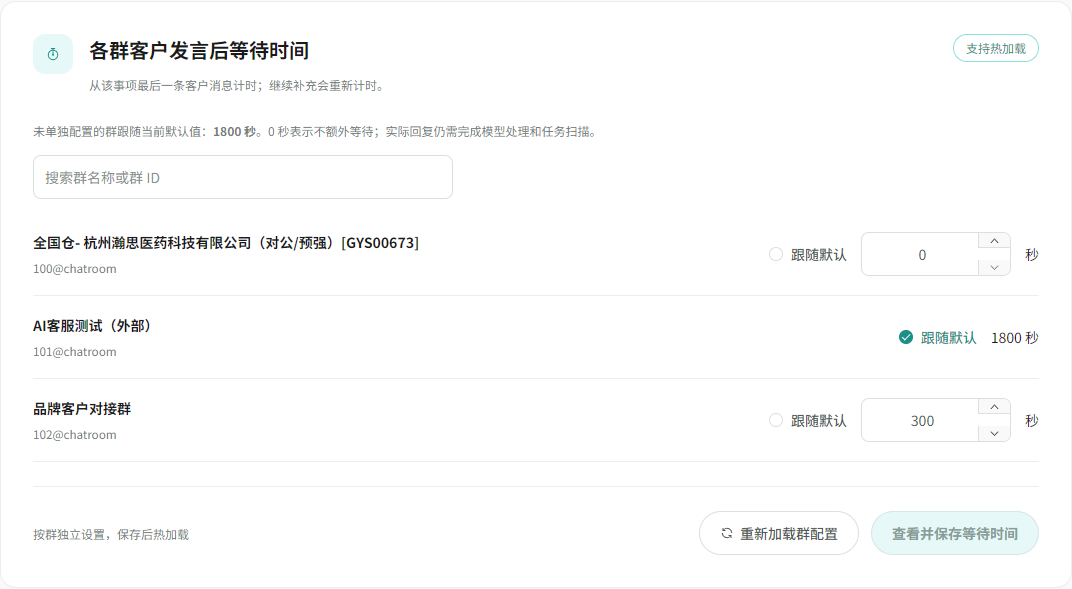
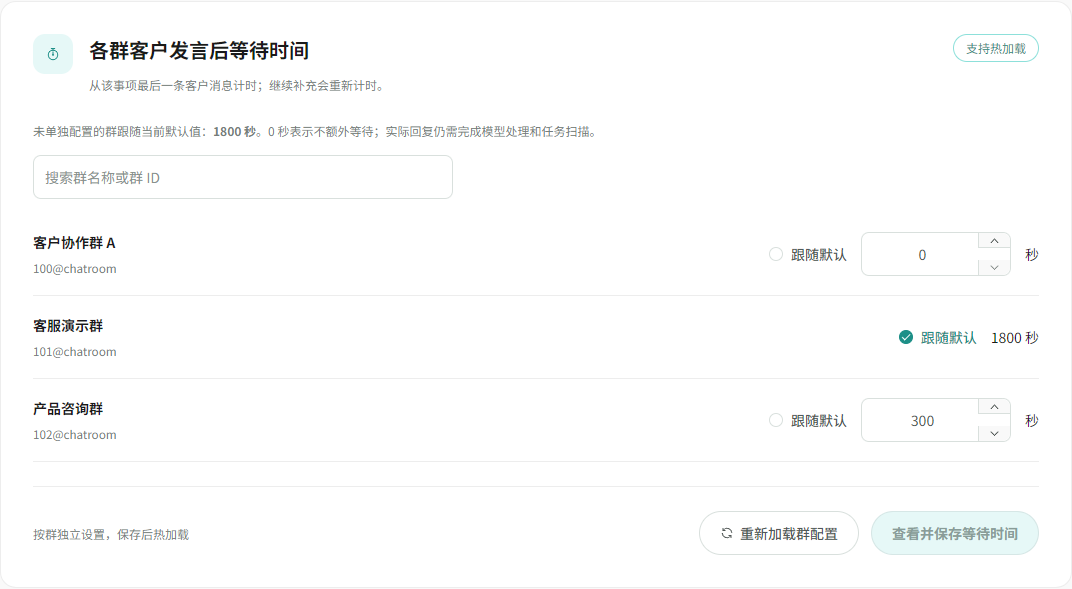
docs: 通用化Agent介绍与截图并忽略本地测试图片

Changed region(s): [[0.0308, 0.3973, 0.4002, 0.4278], [0.0308, 0.5195, 0.1539, 0.5806], [0.0308, 0.6723, 0.1231, 0.7029]]

diff --git a/README.md b/README.md
@@ -1,12 +1,8 @@
-<p align="center">
-  <img src="webui/src/assets/handsin-logo.png" alt="Handsin 瀚思" width="200" />
-</p>
+# AI Customer Service Agent
 
-# 瀚思 AI 客服
+面向微信与企业微信群的通用客服 Agent，连接业务数据、知识库与人工服务。
 
-面向微信与企业微信群的商品资料查询、知识问答与人机协作客服系统。
-
-将商品、工厂、资质和检测报告接入群聊，让客户通过文字、图片或引用消息发起查询。系统结合本地业务数据、FastGPT 知识库和大模型处理需求，并通过事项关联、按群等待和人工接管机制，与真人客服协同工作。
+接收文字、图片与引用消息，将客户的连续发言关联为可跟进的事项，结合业务数据和知识库组织回复。通过按群等待、人工接管与持久状态管理，让自动处理和真人服务在同一对话中协作，并提供 WebUI 配置、查询和观察运行情况。
 
 **Python · FastAPI · SQLite · Vue 3 · TypeScript · FastGPT · GeWe**
 
@@ -14,17 +10,17 @@
 
 ## 适用场景
 
-- **商品与资质咨询**：查询商品信息、关联工厂、商标授权、品类资质及检测报告，按查询结果发送对应附件。
-- **连续消息处理**：客户先发图片，再补充“这两款的检测报告发一下”，系统将相关消息和图片关联到同一事项。
-- **业务问题转人工**：对漏发、金额核对等需要人工处理的需求，结合客户原话生成简短安抚，并按配置提醒负责人。
+- **业务资料查询**：检索业务记录、说明文档和相关附件，结合可核验的数据回复客户。
+- **连续消息处理**：客户先发图片，再补充“这两份资料麻烦发一下”，系统将相关消息和图片关联到同一事项。
+- **人工协作处理**：对于需要人工核实的业务问题，结合客户原话生成简短安抚，并按配置提醒负责人。
 - **多群差异化运营**：不同客户群分别配置等待时间、客服名单、负责人和回复策略，也可先以影子模式观察。
 
 ## 核心能力
 
 | 能力 | 实现方式 |
 |---|---|
-| 商品资料查询 | 本地 SQLite 业务读模型关联 SKU、工厂、品类、商标与批次报告，核验结果后组织回复 |
-| 知识库问答 | 通过 FastGPT 检索官网介绍、产品说明和常见问题，补充结构化数据之外的知识 |
+| 业务数据查询 | 查询本地 SQLite 业务读模型，关联记录与附件，核验结果后组织回复 |
+| 知识库问答 | 通过 FastGPT 检索说明文档和常见问题，补充结构化数据之外的知识 |
 | 多模态上下文 | 结合文字、图片与引用理解需求，按原消息绑定附件，隔离不同客户和独立事项 |
 | 同事项关联 | 识别同一客户的说明与补充，统一计时，持久保存安抚回执，减少重复回复 |
 | 人工接管 | 根据引用或上下文定位接管事项；控制状态跨重启保留，发送前再次核验 |
@@ -49,7 +45,7 @@
 
 ![各群等待时间配置示例](outputs/group-waits-desktop.png)
 
-*上图使用模拟管理数据，展示按群独立等待与继承默认值；图中秒数为演示值。*
+*上图使用匿名模拟群和演示值，展示按群独立等待与继承默认值。*
 
 保存配置前可预览差异；版本检查避免旧页面覆盖新修改。页面区分“已保存配置”和“当前运行值”，需要重启的变更会明确提示。使用方法见 [WebUI 说明](docs/群管理WebUI.md)。
 
@@ -59,7 +55,7 @@
 flowchart TD
     Chat["微信 / 企业微信群"] --> GeWe["GeWe 消息网关"]
     GeWe --> Engine["需求识别与事项编排"]
-    Engine --> Data["商品资料查询 · SQLite"]
+    Engine --> Data["业务数据查询 · SQLite"]
     Engine --> RAG["知识检索 · FastGPT"]
     Engine --> Model["模型安抚与回复生成"]
     Engine <--> State["持久状态 · 等待 / 关联 / 人工接管"]
@@ -76,6 +72,8 @@ flowchart TD
 结构化业务事实通过本地数据库查询和核验，语义知识通过 FastGPT 检索。大模型参与需求理解、图片分析、事项判定与话术生成；等待、接管、撤回及发送回执由持久状态管理。
 
 业务数据可通过飞书多维表格同步构建本地读模型。FastGPT 可使用本地容器或外部服务；模型通过 OpenAI 兼容接口接入，当前实现支持 DeepSeek 配置。
+
+当前内置业务读模型包含商品、工厂、品类、商标与报告查询。用于其他业务时，需要适配相应的数据模型、同步映射与查询逻辑；消息编排、群策略和人工协作机制可作为复用基础。
 
 ## 快速开始
 
